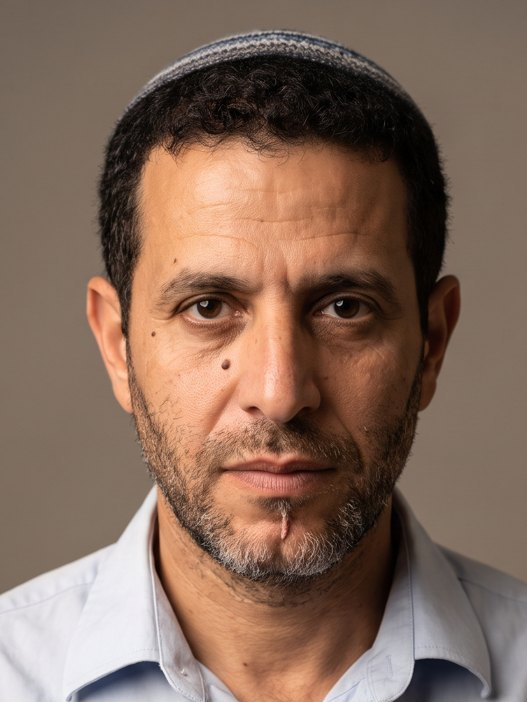
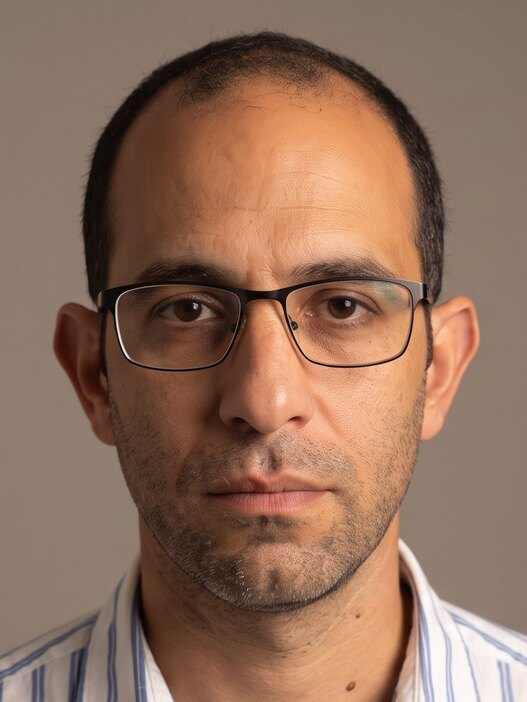
עמוד 03: התיאור, הדמויות, הלוקיישנים והתסריט לפי הגרסה החדשה

diff --git a/film-03.html b/film-03.html
@@ -63,13 +63,13 @@ footer{padding-block:22px;border-top:1px solid var(--line)} footer .inner{displa
 @media (max-width:860px){.grid3,.grid2,.rules,.cast,.locs,.texts,.ask{grid-template-columns:1fr} .shot{grid-template-columns:1fr} .shot .time{flex-direction:row;align-items:center} .shot .f{grid-template-columns:1fr}}
 @media (max-width:560px){.films{grid-template-columns:repeat(2,1fr)} .films.wide{grid-template-columns:1fr} .top nav{display:none} .top .prod small{display:none}}
 </style></head><body><div class="band top"><div class="inner"><div class="logo"><img src="c/logo.png" alt="עיריית שדרות"><div class="dept"><b>אגף הרווחה · עיריית שדרות</b><small>קמפיין ליום המאבק באלימות במשפחה</small></div></div><nav><a href="index.html">ראשי</a><a href="film-01.html">01 הם כבר יודעים</a><a href="film-02.html">02 העסקה</a><a href="film-03.html" class="on">03 התמונה</a><a href="film-04.html">04 הטלפון</a><a href="film-05.html">05 הדלת</a></nav><div class="prod"><small>בהפקת</small><img src="c/efect.png" alt="Efect"></div></div></div>
-<div class="band hero"><div class="inner"><span class="kicker">סרטון 03 · השפלה והקטנה רגשית</span><h1>התמונה המשפחתית</h1><p class="sub">משפחה מתארגנת לתמונה משפחתית. האישה מזיזה אותו לקצה הספה, מתקנת אותו, מסירה את היד שלו, מבטלת אותו מול הילדים. הילד הקטן מחקה אותה. ואז היא מסמנת לו עם שתי אצבעות: תחייך. קליק. בתמונה כולם מחייכים. אחרי הצילום הוא יושב באותה תנוחה, בלי החיוך.</p><div class="meta"><span>20–40 שניות</span><span>דרמה ביתית שקטה</span><span>סלון ישראלי חמים ומסודר, יום</span></div></div></div>
+<div class="band hero"><div class="inner"><span class="kicker">סרטון 03 · השפלה והקטנה רגשית</span><h1>התמונה המשפחתית</h1><p class="sub">יום רגיל בבית. האב צוחק עם הילדים מול הטלפון, והיא לוקחת לו אותו מהיד ומרחיקה אותם. בארוחת הערב הוא מספר סיפור, והיא מחקה אותו מול הילדים. במטבח היא טורקת ארון, והוא נרתע. הבן רואה.</p><div class="meta"><span>20–40 שניות</span><span>דרמה ביתית שקטה</span><span>המטבח של המשפחה, אחר הצהריים ובערב</span></div></div></div>
 <section class="band tint"><div class="inner" style="display:grid;gap:16px"><div class="sec-head"><span class="eyebrow">הסרטון · לאישורכם</span><h2>הגרסה החדשה, עם המשפחה שבחרתם</h2><p>זו גרסת עבודה באיכות נמוכה יותר. אחרי האישור שלכם הסרטון יוצא באיכות המלאה, כמו שאר הסרטונים בסדרה.</p></div><div style="display:grid;grid-template-columns:repeat(auto-fill,minmax(0,400px));gap:18px;justify-content:center"><div style="display:grid;gap:8px;align-content:start;background:#fff;border:2px solid var(--line);border-radius:18px;padding:12px"><video controls playsinline preload="metadata" src="v/f03-v3.mp4" style="display:block;width:100%;border-radius:12px;background:#000;aspect-ratio:9/16"></video><b style="font-size:20px">סרטון 03 · התמונה המשפחתית</b><small style="color:var(--muted);font-size:15px;line-height:1.5"></small></div></div><h3 style="font-size:22px;margin:8px 0 0">מאשרים?</h3><p style="color:var(--muted);margin:0">לחצו על התשובה, כתבו את השם שלכם ולחצו ״שליחת התשובות״ בתחתית הדף. התשובה מגיעה ישירות אלינו.</p><div class="ans" data-label="מאשרים?" data-q="video-3" data-multi="0" style="display:grid;gap:10px"><div class="opts"><button type="button" data-v="מאשרים את הסרטון">מאשרים את הסרטון</button><button type="button" data-v="יש לנו הערות">יש לנו הערות</button></div><textarea rows="2" placeholder="הערות (אם יש), למשל: בשנייה 12 ..."></textarea></div><div class="who-form"><label>השם שלכם (כדי שנדע מי בחר)<input id="ans-name" autocomplete="name" placeholder="שם מלא"></label><label>תפקיד / גוף (לא חובה)<input id="ans-role" placeholder="למשל: עיריית שדרות, Efect"></label></div></div></section>
-<section class="band"><div class="inner"><div class="sec-head"><span class="eyebrow">הדמויות</span><h2>מי בסרטון</h2><p>כל דמות מוצגת בשלוש זוויות: פנים, שלושה-רבעים וגוף מלא, בלבוש של הסרטון. ככה היא תיראה בכל השוטים.</p></div><div class="cast"><div class="who"><img src="c/C3-A2.jpg" alt=""><b>האב</b><small>בן 41, דתי. כיפה סרוגה גדולה, חולצה תכלת, צ'ינו. מאופק, מנסה לחייך.</small></div><div class="who"><img src="c/C3-B2.jpg" alt=""><b>האם</b><small>בת 38, דתייה. מטפחת בורדו עם נפח, חולצה שחורה, חצאית פליסה ירוקה. מבט מבקר שקט.</small></div><div class="who"><img src="c/C3-C3.jpg" alt=""><b>הילדים</b><small>בן 10 עם כיפה סרוגה קטנה וחולצה לבנה, בת 7 בשמלה כחולה עם צווארון לבן. לבוש חגיגי. גבות נקיות וטבעיות.</small></div></div></div></section>
-<section class="band tint"><div class="inner"><div class="sec-head"><span class="eyebrow">הלוקיישנים</span><h2>איפה זה קורה</h2></div><div class="locs"><div class="who"><img src="c/L3.jpg" alt=""><b>הסלון</b><small>ספה בהירה מול קיר תמונות משפחה, חלון גדול עם אור אחר הצהריים, ספרייה עם ספרי קודש, הטלפון על חצובה קטנה מול הספה.</small></div></div></div></section>
+<section class="band"><div class="inner"><div class="sec-head"><span class="eyebrow">הדמויות</span><h2>מי בסרטון</h2><p>כל דמות מוצגת בשלוש זוויות: פנים, שלושה-רבעים וגוף מלא, בלבוש של הסרטון. ככה היא תיראה בכל השוטים.</p></div><div class="cast"><div class="who"><img src="c/C3S-A.jpg" alt=""><b>האב</b><small>בן 40 בערך, רזה, משקפיים דקים, חולצה מכופתרת בפסים.</small></div><div class="who"><img src="c/C3S-B.jpg" alt=""><b>האם</b><small>בת 39 בערך, שיער כהה עד הכתפיים, חולצה בצבע שזיף.</small></div><div class="who"><img src="c/C3S-C.jpg" alt=""><b>הילדים</b><small>בן כ-10 עם משקפיים ובת קטנה ממנו.</small></div></div></div></section>
+<section class="band tint"><div class="inner"><div class="sec-head"><span class="eyebrow">הלוקיישנים</span><h2>איפה זה קורה</h2></div><div class="locs"><div class="who"><img src="c/L3S-1.jpg" alt=""><b>המטבח</b><small>שולחן המטבח ליד המקרר עם ציורי הילדים.</small></div><div class="who"><img src="c/L3S-2.jpg" alt=""><b>המטבח</b><small>הכיור, הארונות ופתח המטבח.</small></div></div></div></section>
 <section class="band"><div class="inner"><div class="sec-head"><span class="eyebrow">כרטיס הסיום</span><h2>איך הסרטון נגמר</h2><p>אותו כרטיס בכל חמשת הסרטונים: שורה שנותנת שם למה שראינו, &quot;אפשר אחרת&quot;, הלוגואים וקו הסיוע. המספר והלוגואים הסופיים ייכנסו עם הקבצים שתשלחו.</p></div><div class="locs"><div class="who card9"><img src="c/endcard-03.png" alt="" style="max-width:360px;margin:0 auto;display:block;border-radius:14px"><small>&quot;השפלה ושליטה מתמשכות הן גם אלימות רגשית.&quot; ואז &quot;אפשר אחרת&quot;, שלושת הלוגואים וקו הסיוע. התבנית שאושרה (קולנועי); המספר והלוגואים הסופיים לפי הקבצים שיישלחו.</small></div></div></div></section>
-<section class="band"><div class="inner"><div class="sec-head"><span class="eyebrow">הקריאטיב</span><h2>התסריט שנייה-שנייה</h2><p>לכל שוט: מה רואים, מה שומעים, איך המצלמה מצלמת, מה האור והקומפוזיציה, ומה הצופה אמור להבין ברגע הזה. התזמונים הם הנחיית עבודה; האורך הסופי של כל סרטון נקבע בעריכה לפי הנרטיב והעברת המסר, בטווח 20–40 שניות.</p></div><div class="tl"><div class="shot"><div class="time"><span class="n">1</span><b>0–4</b><small>4 שניות</small></div><div><h3>התארגנות לתמונה</h3><div class="f"><div class="w"><span>רואים</span>הסלון. שני הילדים כבר עומדים ליד הספה. האם יושבת. האב מסדר את הכיפה ומתיישב לידה בחיוך קטן. בקדמת הפריים, מטושטש: טלפון על חצובה קטנה.</div><div><span>שומעים</span>רעשי בית קלים, בדים זזים, ילדים מתלחשים.</div><div><span>מצלמה</span>רחב · גובה עיניים · 35mm · נעולה</div><div><span>אור וקומפוזיציה</span>אחר הצהריים, אור חלון גדול מהצד, הספה הבהירה מחזירה אור.</div><div><span>רגש / גילוי</span>תמונה משפחתית רגילה.</div><div><span>המשכיות</span>הטלפון על החצובה מול הספה, האב במרכז הספה ליד אשתו.</div></div></div></div><div class="shot"><div class="time"><span class="n">2</span><b>4–8</b><small>4 שניות</small></div><div><h3>לקצה</h3><div class="f"><div class="w"><span>רואים</span>האישה סוקרת אותו במבט ומסמנת ביד: לקצה. הוא מחליק לקצה הספה בלי מחאה. היא מושכת ומסדרת לו את הצווארון בתנועה נוקשה. הוא נותן לה.</div><div><span>שומעים</span>בד נמשך. ספה חורקת. שקט.</div><div><span>מצלמה</span>מדיום טו-שוט · גובה עיניים · 50mm · נעולה</div><div><span>אור וקומפוזיציה</span>אותו אור חלון. הוא קצת יותר בצל.</div><div><span>רגש / גילוי</span>עוד נראה כמו דאגה לתמונה. אבל התנועה קשה מדי.</div><div><span>המשכיות</span>הוא בקצה הספה, הצווארון מסודר.</div></div></div></div><div class="shot"><div class="time"><span class="n">3</span><b>8–12</b><small>4 שניות</small></div><div><h3>היד</h3><div class="f"><div class="w"><span>רואים</span>הוא מניח בעדינות את היד על הכתף שלה. היא מסירה אותה בלי להביט בו ומיישרת את הבגד. הוא מושיט יד ליישר את החולצה של הילד; היא מסיטה את היד שלו ועושה את זה בעצמה.</div><div><span>שומעים</span>בד. שקט.</div><div><span>מצלמה</span>מדיום · גובה עיניים · 50mm · נעולה</div><div><span>אור וקומפוזיציה</span>אור חלון.</div><div><span>רגש / גילוי</span>כל ניסיון שלו מבוטל. גם מול הילדים.</div><div><span>המשכיות</span>היד שלו חוזרת לברך. הילד מסודר.</div></div></div></div><div class="shot"><div class="time"><span class="n">4</span><b>12–16</b><small>4 שניות</small></div><div><h3>הילד מחקה</h3><div class="f"><div class="w"><span>רואים</span>הילדה הקטנה מחקה את אמה: מנפנפת ביד לאב, תזוז עוד קצת. האב מביט בילדה. שנייה. זה הרגע שבו זה כבר כואב.</div><div><span>שומעים</span>שקט מוחלט. הטיימר עוד לא התחיל.</div><div><span>מצלמה</span>מדיום · גובה עיניים · 50mm · הילדה בקדמה, האב בעומק · נעולה</div><div><span>אור וקומפוזיציה</span>אור חלון, פני הילדה מוארות, פניו חצי בצל.</div><div><span>רגש / גילוי</span>ההשפלה עברה דור. הוא רואה את זה.</div><div><span>המשכיות</span>הוא מתכווץ עוד קצת לקצה.</div></div></div></div><div class="shot"><div class="time"><span class="n">5</span><b>16–20</b><small>4 שניות</small></div><div><h3>תחייך</h3><div class="f"><div class="w"><span>רואים</span>האב בקצה הספה, כתפיים פנימה, מבט למטה. האישה מפנה אליו את הראש ומסמנת עם שתי אצבעות בזוויות הפה: תחייך. פניה רגועות, ענייניות.</div><div><span>שומעים</span>שקט. טיימר של טלפון מתחיל לצפצף.</div><div><span>מצלמה</span>קלוז-אפ · גובה עיניים · 85mm · ואז טו-שוט · נעולה</div><div><span>אור וקומפוזיציה</span>אור חלון רך על הפנים.</div><div><span>רגש / גילוי</span>הפקודה העדינה ביותר בסרטון היא הכי קשה.</div><div><span>המשכיות</span>שתי האצבעות שלה בזוויות הפה, המבט שלו עולה.</div></div></div></div><div class="shot"><div class="time"><span class="n">6</span><b>20–24</b><small>4 שניות</small></div><div><h3>הקליק</h3><div class="f"><div class="w"><span>רואים</span>הוא מרים את הראש. מחייך חיוך מאולץ. הצפצופים מתקצרים. קליק. הפריים קופא והופך לתמונה.</div><div><span>שומעים</span>צפצופי טיימר, קליק צילום חד. המוזיקה דועכת.</div><div><span>מצלמה</span>רחב · גובה עיניים · 35mm · מנקודת המבט של הטלפון · נעולה</div><div><span>אור וקומפוזיציה</span>אור חלון מלא, כולם מוארים.</div><div><span>רגש / גילוי</span>התמונה המושלמת.</div><div><span>המשכיות</span>כולם במקומם, הוא בקצה עם חיוך גדול.</div></div></div></div><div class="shot"><div class="time"><span class="n">7</span><b>24–28</b><small>4 שניות</small></div><div><h3>התמונה</h3><div class="f"><div class="w"><span>רואים</span>מסך הטלפון: התמונה המשפחתית. כולם מחייכים. האב יושב בקצה, עם חיוך גדול.</div><div><span>שומעים</span>שקט.</div><div><span>מצלמה</span>קלוז-אפ על מסך הטלפון · 85mm · נעולה</div><div><span>אור וקומפוזיציה</span>אור המסך.</div><div><span>רגש / גילוי</span>ככה זה ייראה באלבום.</div><div><span>המשכיות</span>אותה קומפוזיציה בדיוק כמו שוט 6.</div></div></div></div><div class="shot"><div class="time"><span class="n">8</span><b>28–32</b><small>4 שניות</small></div><div><h3>אחרי הצילום</h3><div class="f"><div class="w"><span>רואים</span>קאט חד. האב אחרי הצילום, בדיוק באותה תנוחה בקצה הספה, בלי החיוך. סביבו, מטושטשים, האחרים קמים ומתפזרים.</div><div><span>שומעים</span>צעדים, בד, ילדים מתרחקים. שקט.</div><div><span>מצלמה</span>מדיום · גובה עיניים · 50mm · נעולה</div><div><span>אור וקומפוזיציה</span>אותו אור חלון, הוא לבד בפוקוס.</div><div><span>רגש / גילוי</span>הפער בין התמונה לבית.</div><div><span>המשכיות</span>אותה תנוחה כמו בתמונה. רק הפנים אחרות.</div></div></div></div><div class="shot"><div class="time"><span class="n">9</span><b>32–35</b><small>3 שניות</small></div><div><h3>כרטיס סיום</h3><div class="f"><div class="w"><span>רואים</span>כרטיס אחד, אותה תבנית בכל הסדרה: &quot;השפלה ושליטה מתמשכות הן גם אלימות רגשית.&quot; ואז &quot;אפשר אחרת&quot;, הלוגואים ופרטי הסיוע.</div><div><span>שומעים</span>שקט, אקורד עדין.</div><div><span>מצלמה</span>כרטיס · סטטי</div><div><span>אור וקומפוזיציה</span>רקע כהה-חם, טקסט בהיר.</div><div><span>רגש / גילוי</span>השם של מה שראינו, בלי לסכם.</div><div><span>המשכיות</span>אזור בטוח.</div></div></div></div></div></div></section>
-<section class="band tint"><div class="inner"><div class="sec-head"><span class="eyebrow">המסרים</span><h2>מה כתוב על המסך</h2><p>כל הטקסטים נבנים בעריכה, בעברית, באזור הבטוח של אינסטגרם. הנוסחים כאן לאישורכם.</p></div><div class="texts"><div class="quote">כרטיס אחד, אותה תבנית בכל הסדרה: &quot;השפלה ושליטה מתמשכות הן גם אלימות רגשית.&quot; ואז &quot;אפשר אחרת&quot;, הלוגואים ופרטי הסיוע.<small>כרטיס הסיום, 32–35 שניות</small></div></div></div></section>
+<section class="band"><div class="inner"><div class="sec-head"><span class="eyebrow">הקריאטיב</span><h2>התסריט שנייה-שנייה</h2><p>לכל שוט: מה רואים, מה שומעים, איך המצלמה מצלמת, מה האור והקומפוזיציה, ומה הצופה אמור להבין ברגע הזה. התזמונים הם הנחיית עבודה; האורך הסופי של כל סרטון נקבע בעריכה לפי הנרטיב והעברת המסר, בטווח 20–40 שניות.</p></div><div class="tl"><div class="shot"><div class="time"><span class="n">1</span><b>0–3.5</b><small>3.5 שניות</small></div><div><h3>צוחקים מהטלפון</h3><div class="f"><div class="w"><span>רואים</span>המטבח, אחר הצהריים. האב יושב ליד השולחן, ושני הילדים נשענים עליו ומסתכלים איתו על משהו מצחיק בטלפון. שלושתם צוחקים.</div><div><span>שומעים</span>גיטרה שקטה, רעשי בית.</div><div><span>מצלמה</span>מדיום · גובה עיניים · 50mm · נעולה</div><div><span>רגש / גילוי</span>רגע משפחתי חם.</div></div></div></div><div class="shot"><div class="time"><span class="n">2</span><b>3.5–8</b><small>4.5 שניות</small></div><div><h3>הטלפון נלקח</h3><div class="f"><div class="w"><span>רואים</span>האם עוברת מאחוריהם עם ערימת צלחות, לוקחת לו את הטלפון מהיד באמצע הצחוק ומרחיקה את הילדים. הוא נשאר לבד ליד השולחן, הידיים ריקות, המבט למטה.</div><div><span>שומעים</span>גיטרה שקטה, צלחות, כיסא על הרצפה.</div><div><span>מצלמה</span>מדיום · גובה עיניים · 50mm · נעולה</div><div><span>רגש / גילוי</span>היא לא כועסת. זה פשוט מובן מאליו לה.</div></div></div></div><div class="shot"><div class="time"><span class="n">3</span><b>8–10.5</b><small>2.5 שניות</small></div><div><h3>הסיפור שלו</h3><div class="f"><div class="w"><span>רואים</span>ארוחת ערב. האב מספר סיפור מצחיק, והבן שלידו צוחק.</div><div><span>שומעים</span>גיטרה שקטה, סכו״ם על צלחות.</div><div><span>מצלמה</span>קלוז טו-שוט · גובה עיניים · 50mm · נעולה</div><div><span>רגש / גילוי</span>הוא נהנה. לרגע הוא במרכז.</div></div></div></div><div class="shot"><div class="time"><span class="n">4</span><b>10.5–13.9</b><small>3.4 שניות</small></div><div><h3>היא מחקה אותו</h3><div class="f"><div class="w"><span>רואים</span>האם, בלי להסתכל עליו, מרימה יד ליד הפנים ופותחת וסוגרת את האצבעות כמו פה שמדבר: בלה, בלה, בלה. מול הילדים.</div><div><span>שומעים</span>גיטרה שקטה. לא שומעים מילים.</div><div><span>מצלמה</span>קלוז-אפ · גובה עיניים · 85mm · נעולה</div><div><span>רגש / גילוי</span>בוז שקט ועייף. הבדיחה היא הוא.</div></div></div></div><div class="shot"><div class="time"><span class="n">5</span><b>13.9–16.1</b><small>2.2 שניות</small></div><div><h3>החיוך נעלם</h3><div class="f"><div class="w"><span>רואים</span>החיוך של האב נעלם באמצע המשפט. הוא מוריד את העיניים לצלחת ומזיז את האוכל במזלג. הבן מסתכל עליו.</div><div><span>שומעים</span>גיטרה שקטה.</div><div><span>מצלמה</span>קלוז-אפ · גובה עיניים · 85mm · נעולה</div><div><span>רגש / גילוי</span>הוא מפסיק לדבר. הבן קולט.</div></div></div></div><div class="shot"><div class="time"><span class="n">6</span><b>16.1–19.2</b><small>3.1 שניות</small></div><div><h3>הארון</h3><div class="f"><div class="w"><span>רואים</span>המטבח, מאוחר יותר. האב מנגב צלחת ליד הכיור, והאם לוקחת כוס מהארון שמעליה. הבן נכנס לפתח המטבח. היא טורקת את הארון שלה בחוזקה, והאב נרתע בבת אחת וממשיך לנגב. היא יוצאת עם הכוס.</div><div><span>שומעים</span>טריקת ארון חזקה. המוזיקה כמעט נעלמת.</div><div><span>מצלמה</span>רחב · גובה עיניים · 35mm · נעולה</div><div><span>רגש / גילוי</span>היא לא נגעה בו. הגוף שלו כבר יודע לפחד.</div></div></div></div><div class="shot"><div class="time"><span class="n">7</span><b>19.2–20.6</b><small>1.4 שניות</small></div><div><h3>הבן ראה</h3><div class="f"><div class="w"><span>רואים</span>הבן עומד בפתח המטבח ומסתכל על אבא שלו.</div><div><span>שומעים</span>שקט.</div><div><span>מצלמה</span>מדיום · גובה עיניים · 50mm · נעולה</div><div><span>רגש / גילוי</span>הוא ראה הכול.</div></div></div></div><div class="shot"><div class="time"><span class="n">8</span><b>20.6–24.7</b><small>4.1 שניות</small></div><div><h3>החיוך שלא מחזיק</h3><div class="f"><div class="w"><span>רואים</span>האב מרים את העיניים אל הבן ומנסה חיוך קטן, כדי להרגיע אותו. החיוך לא מחזיק. הוא מוריד את המבט בחזרה לצלחת.</div><div><span>שומעים</span>שקט, נשימה אחת. המוזיקה חוזרת בעדינות.</div><div><span>מצלמה</span>קלוז-אפ · גובה עיניים · 85mm · נעולה</div><div><span>רגש / גילוי</span>הוא רוצה להגן על הבן, ולא מצליח.</div></div></div></div><div class="shot"><div class="time"><span class="n">9</span><b>24.7–30.7</b><small>6 שניות</small></div><div><h3>כרטיס סיום</h3><div class="f"><div class="w"><span>רואים</span>השפלה ושליטה מתמשכות הן גם אלימות רגשית.</div><div><span>שומעים</span>המוזיקה נסגרת.</div><div><span>מצלמה</span>כרטיס · סטטי</div><div><span>רגש / גילוי</span>השם של מה שראינו, בלי לסכם.</div></div></div></div></div></div></section>
+<section class="band tint"><div class="inner"><div class="sec-head"><span class="eyebrow">המסרים</span><h2>מה כתוב על המסך</h2><p>כל הטקסטים נבנים בעריכה, בעברית, באזור הבטוח של אינסטגרם. הנוסחים כאן לאישורכם.</p></div><div class="texts"><div class="quote">השפלה ושליטה מתמשכות הן גם אלימות רגשית.<small>כרטיס הסיום, 24.7–30.7 שניות</small></div></div></div></section>
 <section class="band"><div class="inner pager"><a href="film-02.html">‹ סרטון 02</a><a class="fill" href="film-04.html">סרטון 04 ›</a></div></section>
 <div class="band prodband"><div class="inner"><img src="c/efect.png" alt="Efect"><div><b>ההפקה: Efect, הבית הישראלי לעולמות וירטואליים</b><p>חמשת הסרטונים מופקים דרך Efect, בהובלת אוראל לוי: תסריט, בימוי, יצירת הדמויות והסצנות, עריכה, סאונד וטקסטים, עד חמישה סרטונים מוכנים לפרסום.</p></div></div></div><footer class="band"><div class="inner"><span><b>אגף הרווחה · עיריית שדרות</b> · קמפיין ליום המאבק באלימות במשפחה</span><span>הפקה: Efect · אוראל לוי</span></div></footer>
 <style>.opts{display:flex;flex-wrap:wrap;gap:8px}.opts button{font:inherit;font-size:16px;font-weight:700;padding:9px 16px;border-radius:999px;border:2px solid var(--line);background:#fff;color:var(--ink);cursor:pointer}
